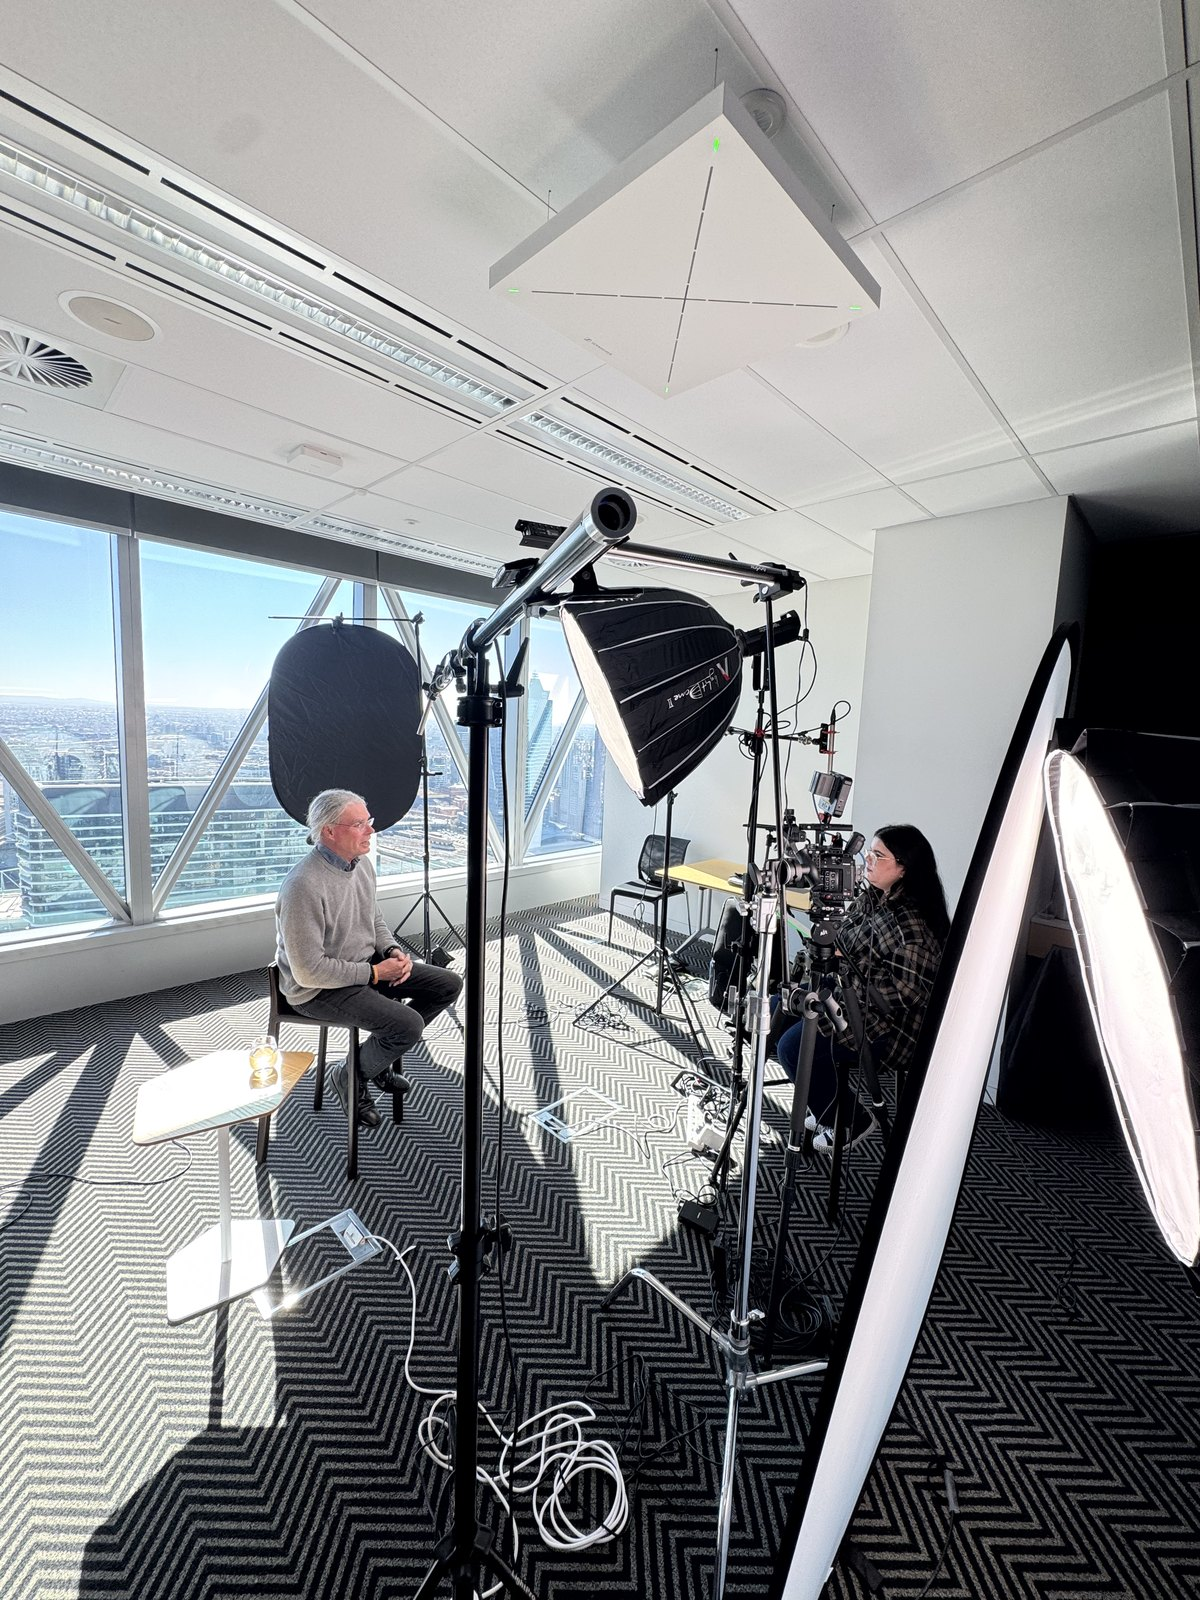
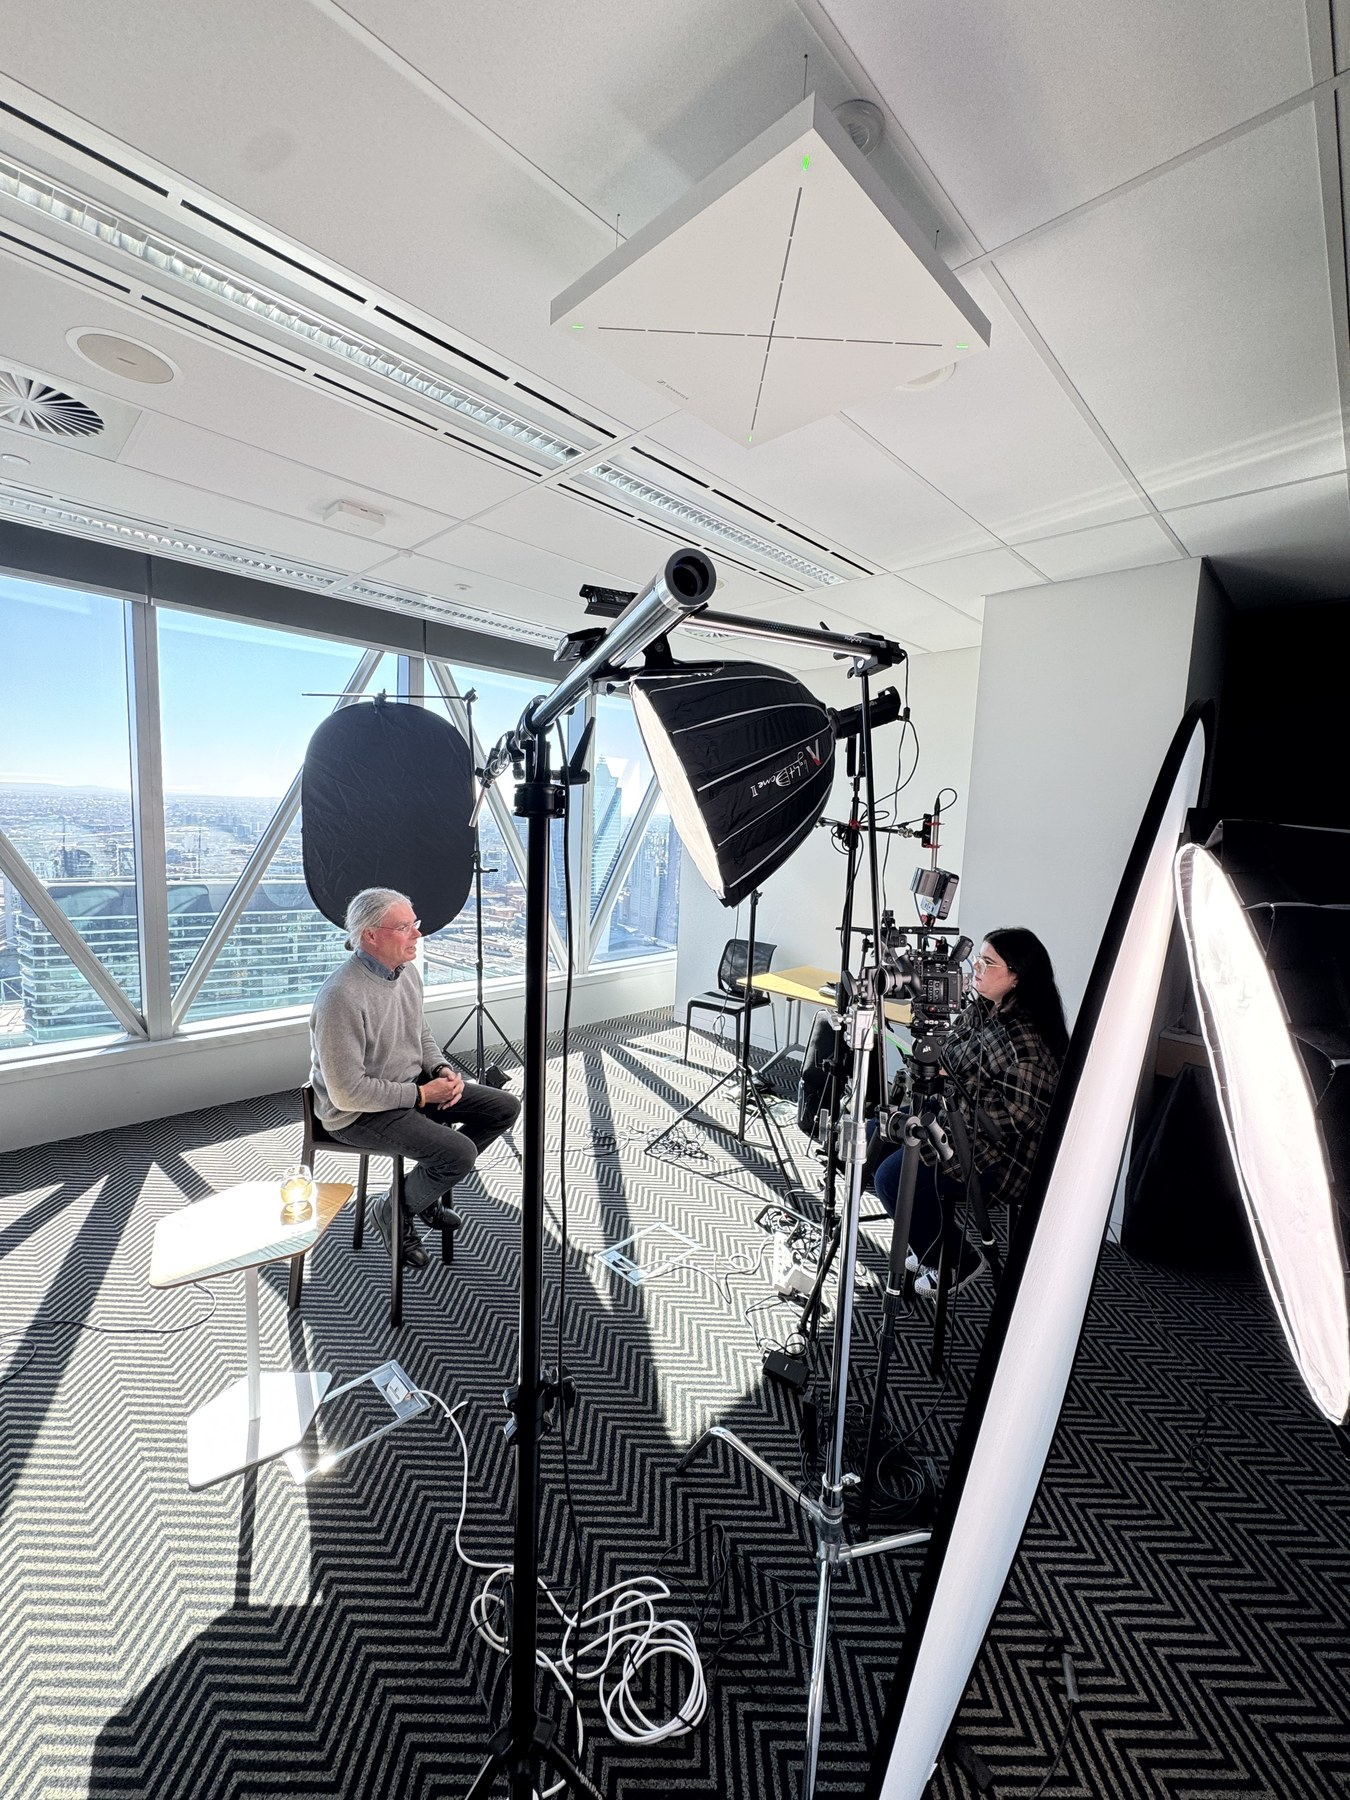
Contact rebuild + About nav fix + BTS orientation fix
- About nav now points to #what (Founder stays pure scroll discovery)
- Reworked What we're great at copy (thousands of videos too)
- Rebuilt Contact as frosted-glass card with form on animated green gradient
- Pulsing green dot on submit button
- Reprocessed BTS images through EXIF transpose so vertical shots sit correctly

diff --git a/index.html b/index.html
@@ -947,55 +947,171 @@ a.pod-art-item .pod-art-label { color: #fff; }
 /* ===== CONTACT ===== */
 .contact {
   border-top: 1px solid var(--line);
-  text-align: center;
   position: relative;
   overflow: hidden;
   background: var(--bg);
+  padding: 120px 0 140px;
 }
 .contact::before {
   content: '';
   position: absolute;
-  bottom: -300px; left: 50%;
-  transform: translateX(-50%);
-  width: 1100px; height: 700px;
-  background: radial-gradient(ellipse, var(--green) 0%, rgba(0,255,170,0.3) 28%, transparent 62%);
-  opacity: 0.35;
-  filter: blur(50px);
+  inset: -20% -10% -20% -10%;
+  background:
+    radial-gradient(60% 50% at 20% 30%, rgba(0,255,170,0.55) 0%, transparent 60%),
+    radial-gradient(55% 55% at 80% 20%, rgba(0,200,140,0.45) 0%, transparent 60%),
+    radial-gradient(70% 60% at 60% 85%, rgba(0,140,100,0.5) 0%, transparent 65%),
+    radial-gradient(60% 60% at 10% 90%, rgba(0,80,60,0.5) 0%, transparent 60%);
+  filter: blur(60px);
+  animation: contact-drift 18s ease-in-out infinite alternate;
   pointer-events: none;
+  z-index: 0;
 }
-html[data-theme="dark"] .contact::before { opacity: 0.22; }
-.contact-inner { max-width: 860px; margin: 0 auto; position: relative; z-index: 1; }
+.contact::after {
+  content: '';
+  position: absolute; inset: 0;
+  background: radial-gradient(ellipse at center, transparent 0%, rgba(0,0,0,0.25) 100%);
+  pointer-events: none;
+  z-index: 0;
+}
+html[data-theme="dark"] .contact::before { opacity: 0.85; }
+html[data-theme="dark"] .contact::after { background: radial-gradient(ellipse at center, transparent 0%, rgba(0,0,0,0.55) 100%); }
+@keyframes contact-drift {
+  0%   { transform: translate(0,0) scale(1); }
+  50%  { transform: translate(-2%, 1%) scale(1.04); }
+  100% { transform: translate(2%, -1%) scale(1.02); }
+}
+.contact-inner { max-width: 980px; margin: 0 auto; position: relative; z-index: 1; }
+.contact-card {
+  position: relative;
+  background: rgba(255,255,255,0.14);
+  border: 1px solid rgba(255,255,255,0.28);
+  border-radius: 28px;
+  padding: 64px 72px 72px;
+  backdrop-filter: blur(26px) saturate(140%);
+  -webkit-backdrop-filter: blur(26px) saturate(140%);
+  box-shadow:
+    0 40px 120px rgba(0,0,0,0.25),
+    0 2px 0 rgba(255,255,255,0.35) inset,
+    0 -1px 0 rgba(0,0,0,0.15) inset;
+}
+html[data-theme="dark"] .contact-card {
+  background: rgba(20,20,22,0.55);
+  border-color: rgba(255,255,255,0.14);
+  box-shadow:
+    0 40px 120px rgba(0,0,0,0.55),
+    0 2px 0 rgba(255,255,255,0.08) inset,
+    0 -1px 0 rgba(0,0,0,0.3) inset;
+}
+.contact-card .section-eyebrow { margin-bottom: 10px; }
 .contact h2 {
   font-family: var(--font-head);
   font-weight: 400;
-  font-size: clamp(46px, 7vw, 108px);
+  font-size: clamp(44px, 6.5vw, 92px);
   line-height: 0.9;
   letter-spacing: -0.015em;
-  margin-bottom: 36px;
+  margin: 6px 0 18px;
   text-transform: uppercase;
 }
-.contact p {
-  font-size: clamp(17px, 1.5vw, 20px);
+.contact-lead {
+  font-size: clamp(16px, 1.4vw, 19px);
   color: var(--muted);
-  margin: 0 auto 44px;
-  max-width: 580px;
+  max-width: 620px;
+  margin: 0 0 40px;
 }
-.email-big {
-  display: inline-block;
-  font-family: var(--font-logo);
-  font-weight: 900;
-  font-size: clamp(22px, 3vw, 38px);
+.contact-form { display: grid; grid-template-columns: 1fr 1fr; gap: 18px; }
+.contact-form .full { grid-column: 1 / -1; }
+.contact-form label {
+  display: block;
+  font-size: 11px;
+  letter-spacing: 0.12em;
+  text-transform: uppercase;
+  font-weight: 800;
+  color: var(--muted);
+  margin-bottom: 8px;
+}
+.contact-form input,
+.contact-form textarea,
+.contact-form select {
+  width: 100%;
+  font: inherit;
+  font-size: 16px;
   color: var(--fg);
-  padding: 28px 46px;
-  background: var(--bg);
-  border: 2px solid var(--fg);
-  border-radius: 100px;
-  transition: all 0.3s var(--ease);
-  letter-spacing: -0.01em;
+  background: rgba(255,255,255,0.5);
+  border: 1px solid rgba(0,0,0,0.12);
+  border-radius: 14px;
+  padding: 16px 18px;
+  outline: none;
+  transition: all 0.2s var(--ease);
+  backdrop-filter: blur(8px);
+  -webkit-backdrop-filter: blur(8px);
 }
-.email-big:hover { background: var(--fg); color: var(--bg); transform: translateY(-2px); }
-.contact-phone { margin-top: 26px; font-size: 15px; color: var(--muted); }
-.contact-phone a { color: var(--fg); font-weight: 600; border-bottom: 1px solid var(--line); }
+html[data-theme="dark"] .contact-form input,
+html[data-theme="dark"] .contact-form textarea,
+html[data-theme="dark"] .contact-form select {
+  background: rgba(255,255,255,0.06);
+  border-color: rgba(255,255,255,0.14);
+}
+.contact-form textarea { min-height: 140px; resize: vertical; }
+.contact-form input:focus,
+.contact-form textarea:focus,
+.contact-form select:focus {
+  border-color: var(--green);
+  box-shadow: 0 0 0 4px rgba(0,255,170,0.18);
+  background: rgba(255,255,255,0.8);
+}
+html[data-theme="dark"] .contact-form input:focus,
+html[data-theme="dark"] .contact-form textarea:focus,
+html[data-theme="dark"] .contact-form select:focus {
+  background: rgba(255,255,255,0.1);
+}
+.contact-submit {
+  margin-top: 8px;
+  grid-column: 1 / -1;
+  display: flex;
+  align-items: center;
+  justify-content: space-between;
+  gap: 18px;
+  flex-wrap: wrap;
+}
+.contact-submit .small {
+  font-size: 13px;
+  color: var(--muted);
+}
+.contact-submit button {
+  appearance: none;
+  border: none;
+  cursor: pointer;
+  font: inherit;
+  font-weight: 800;
+  font-size: 15px;
+  letter-spacing: 0.08em;
+  text-transform: uppercase;
+  background: var(--fg);
+  color: var(--bg);
+  padding: 18px 32px;
+  border-radius: 100px;
+  transition: all 0.25s var(--ease);
+  display: inline-flex;
+  align-items: center;
+  gap: 10px;
+}
+.contact-submit button:hover { transform: translateY(-2px); box-shadow: 0 16px 40px rgba(0,0,0,0.25); }
+.contact-submit button .pulse {
+  width: 8px; height: 8px; border-radius: 50%;
+  background: var(--green);
+  box-shadow: 0 0 0 0 rgba(0,255,170,0.8);
+  animation: contact-pulse 2s infinite;
+}
+@keyframes contact-pulse {
+  0%   { box-shadow: 0 0 0 0 rgba(0,255,170,0.8); }
+  70%  { box-shadow: 0 0 0 10px rgba(0,255,170,0); }
+  100% { box-shadow: 0 0 0 0 rgba(0,255,170,0); }
+}
+@media (max-width: 720px) {
+  .contact { padding: 80px 0 100px; }
+  .contact-card { padding: 40px 26px 48px; border-radius: 22px; }
+  .contact-form { grid-template-columns: 1fr; }
+}
 
 /* ===== FOOTER ===== */
 footer {
@@ -1036,7 +1152,7 @@ footer {
   <div class="wrap nav-inner">
     <a href="#" class="logo">VIDPOD<span class="dot"></span></a>
     <div class="nav-links">
-      <a href="#founder">About</a>
+      <a href="#what">About</a>
       <a href="#work-vid">Video</a>
       <a href="#work-pod">Podcast</a>
       <a href="#contact">Contact</a>
@@ -1072,7 +1188,7 @@ footer {
   <div class="wrap">
     <div class="reveal">
       <h2 class="section-title">What we're<br>great at<span class="dot"></span></h2>
-      <p class="section-intro">Two things, done properly. <strong>Video</strong> and <strong>podcast</strong> production, end-to-end. Melbourne-based, 10+ years in, thousands of podcast episodes and hundreds of videos produced. One team, one point of contact — idea, shoot, edit, publish, promote.</p>
+      <p class="section-intro">Two things, done properly. <strong>Video</strong> and <strong>podcast</strong> production, end-to-end. Melbourne-based, more than a decade in the game, thousands of podcast episodes and thousands of videos produced. From the first idea to the final cut — and everything in between.</p>
     </div>
 
     <div class="services-grid">
@@ -1332,12 +1448,41 @@ footer {
 
 <section class="contact" id="contact">
   <div class="wrap contact-inner">
-    <div class="reveal">
+    <div class="contact-card reveal">
       <div class="section-eyebrow">Contact</div>
       <h2>Let's make<br>something<span class="dot"></span></h2>
-      <p>Ready to bring your video or podcast idea to life? Get in touch with us, and we'll happily guide you through the process, tailoring our approach to your unique needs. Let VIDPOD help you create content that leaves a lasting impression on your audience.</p>
-      <a href="mailto:tommy@vidpod.com.au?subject=Project%20enquiry" class="email-big">tommy@vidpod.com.au</a>
-      <div class="contact-phone">Or give us a call — <a href="tel:+61401576859">0401 576 859</a></div>
+      <p class="contact-lead">Tell us what you've got in mind. A brand film, a new podcast, a one-off shoot, a full series — no brief too rough. We'll read it, reply, and set up a call.</p>
+      <form class="contact-form" action="https://formspree.io/f/REPLACE_ME" method="POST" id="contactForm">
+        <div>
+          <label for="cf-name">Your name</label>
+          <input type="text" id="cf-name" name="name" required placeholder="Jane Smith">
+        </div>
+        <div>
+          <label for="cf-email">Email</label>
+          <input type="email" id="cf-email" name="email" required placeholder="jane@company.com">
+        </div>
+        <div>
+          <label for="cf-company">Company</label>
+          <input type="text" id="cf-company" name="company" placeholder="Optional">
+        </div>
+        <div>
+          <label for="cf-type">What are you after?</label>
+          <select id="cf-type" name="project_type">
+            <option>Video production</option>
+            <option>Podcast production</option>
+            <option>Both</option>
+            <option>Not sure yet</option>
+          </select>
+        </div>
+        <div class="full">
+          <label for="cf-message">Tell us about the project</label>
+          <textarea id="cf-message" name="message" required placeholder="The idea, the audience, the deadline, the budget ballpark — whatever you've got."></textarea>
+        </div>
+        <div class="contact-submit">
+          <span class="small">We usually reply within a day.</span>
+          <button type="submit"><span class="pulse"></span>Send it through →</button>
+        </div>
+      </form>
     </div>
   </div>
 </section>
